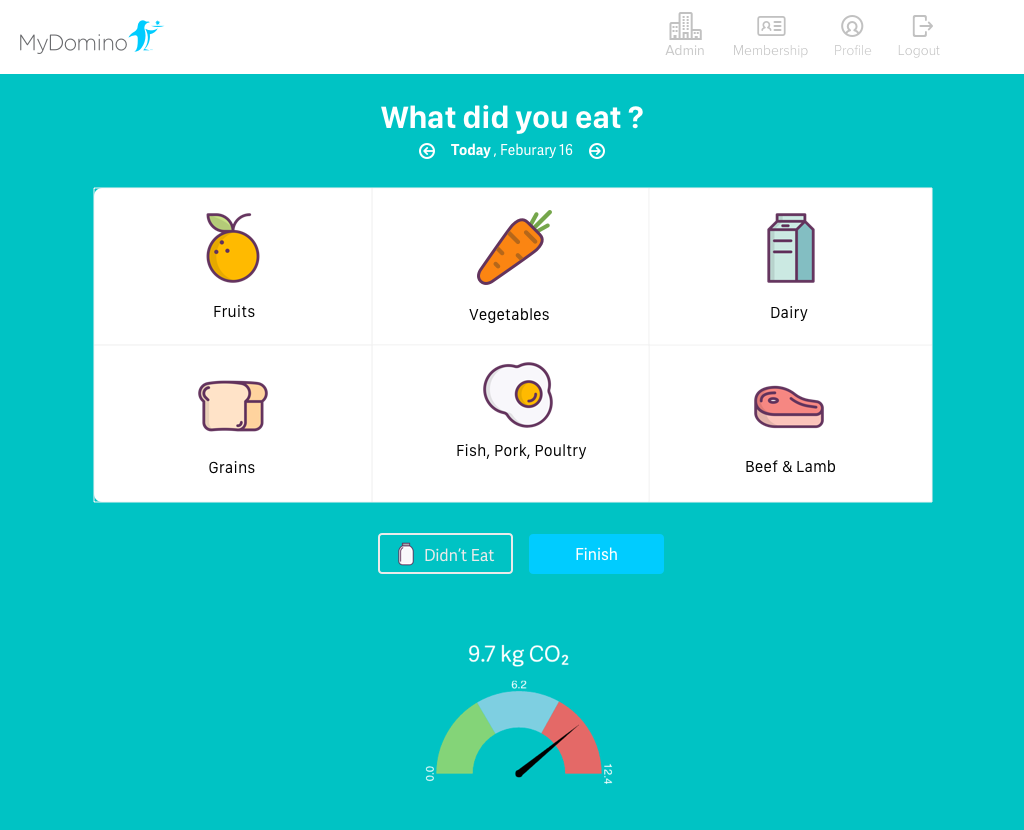
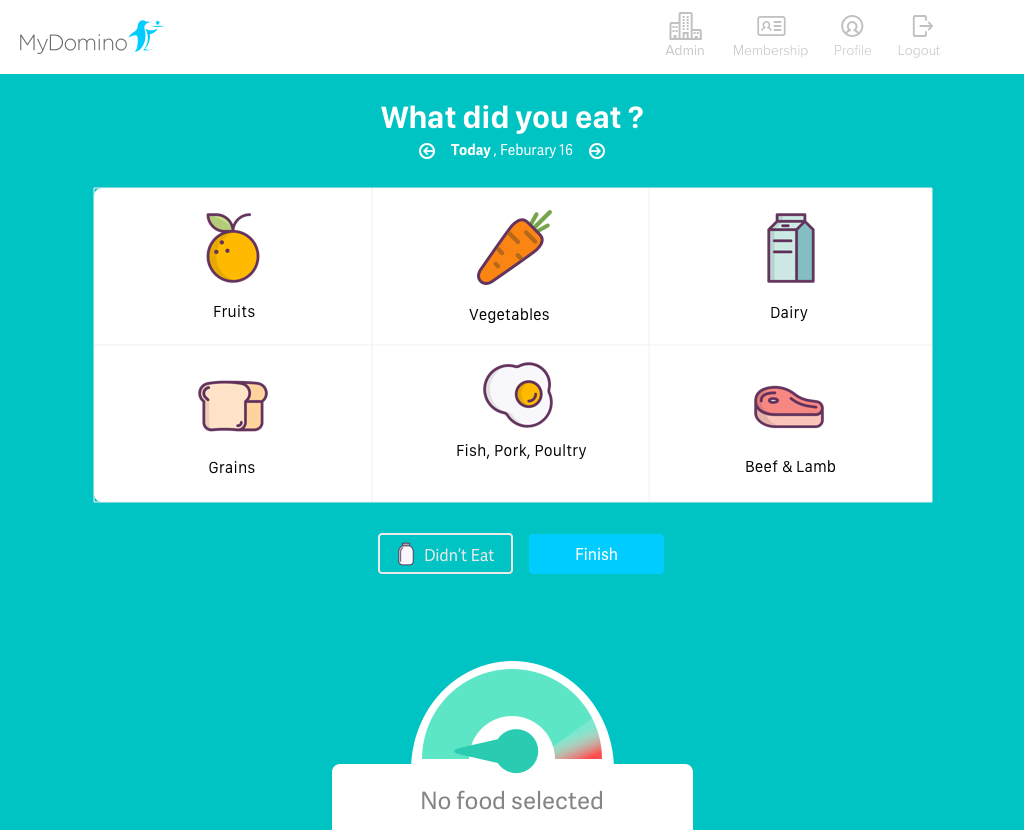
writing some copy

Changed region(s): [[0.3125, 0.7831, 0.6875, 1.0]]

diff --git a/_posts/2017-03-21-food-challenge.md b/_posts/2017-03-21-food-challenge.md
@@ -45,32 +45,30 @@ I then took the best ideas so see how well they held up on the screen.
 We decided on a data visualization design that placed focus on a user's food impact progress. Below the progress tile, we also offered other resources such as helpful articles and local events in the area.
 {{end_block}}
 {{image-md}}
-<img class="w-100" src="https://canvas-files-prod.s3.amazonaws.com/uploads/04c2e070-f6d3-48ef-b7ad-992e6b5bbb93/Member-home 3f.png">
+<img class="w-100" src="/assets/food-challenge/myhome-v1.png">
 {{end_block}}
 {{image-md}}
 <img class="w-100" src="assets/food-challenge/hover.gif">
-<p class="db center tc mono gray f6 mt0  mb5"> Hover interaction</p>
-{{end_block}}
-
-
-
-{{writing}}
-In the food view, we grouped the categories and a dynamic gauge so users could quickly see their relationships of food and their carbon impact.
+<p class="center tc mono gray f6 mt0 mb5"> Hover interaction</p>
 {{end_block}}
 
 {{image-three}}
-<img class="w-100 w-33-ns " src="/assets/food-challenge/foodSelect--empty.png">
-<img class="w-100 w-33-ns " src="/assets/food-challenge/foodSelect--modal.png">
-<img class="w-100 w-33-ns " src="/assets/food-challenge/foodSelect--selected.png">
+<img class="w-100 w-33-ns" src="/assets/food-challenge/foodSelect--empty.png">
+<img class="w-100 w-33-ns" src="/assets/food-challenge/foodSelect--modal.png">
+<img class="w-100 w-33-ns" src="/assets/food-challenge/foodSelect--selected.png">
+<p class="center tc mono gray f6 mt0 mb5">The dynamic gauge gives instant feedback on their carbon impact.</p>
 {{end_block}}
 {{writing}}
-At this time, we knew this flow didn't feel complete, but we had been building the product non-stop and needed to conduct user research to give our team better perspective.
+In the food view, after a user finishes food input flow, they are brought back to the dashboard. We felt that this experience created a dead-end without much incentive for the user to come back.
 
 ## Feedback
 
-I suggested that we should do some user interviews even if the product wasn't fully functional.
+I suggested that we should do some user interviews even if the product wasn't fully functional to test our assumption.
 
-From our research, we saw that people were not interested in the graph, because it wasn't clear what the numbers meant. We knew then that we needed to slim down the Food Challenge tile, but without losing the affordance to go into the Food iew.
+Here are some insights we found:
+- Measurement for carbon dioxide wasn't a clear indicator of how well they were doing
+- There wasn't enough context for the graph to be meaningful
+- The gauge was easy to miss on smaller screens
 
 My product manager suggested we try a week view showing only completion. Our engineers were working on higher priority tasks, so I designed and implemented the idea.
 

diff --git a/_includes/styles.md b/_includes/styles.md
@@ -12,7 +12,7 @@
 {% endcapture %}
 
 {% capture image-three %}
-<div class="flex flex-column flex-row-ns justify-around center" markdown="1">
+<div class="flex flex-column flex-wrap flex-row-ns justify-around center" markdown="1">
 {% endcapture %}
 
 {% capture end_block %}
